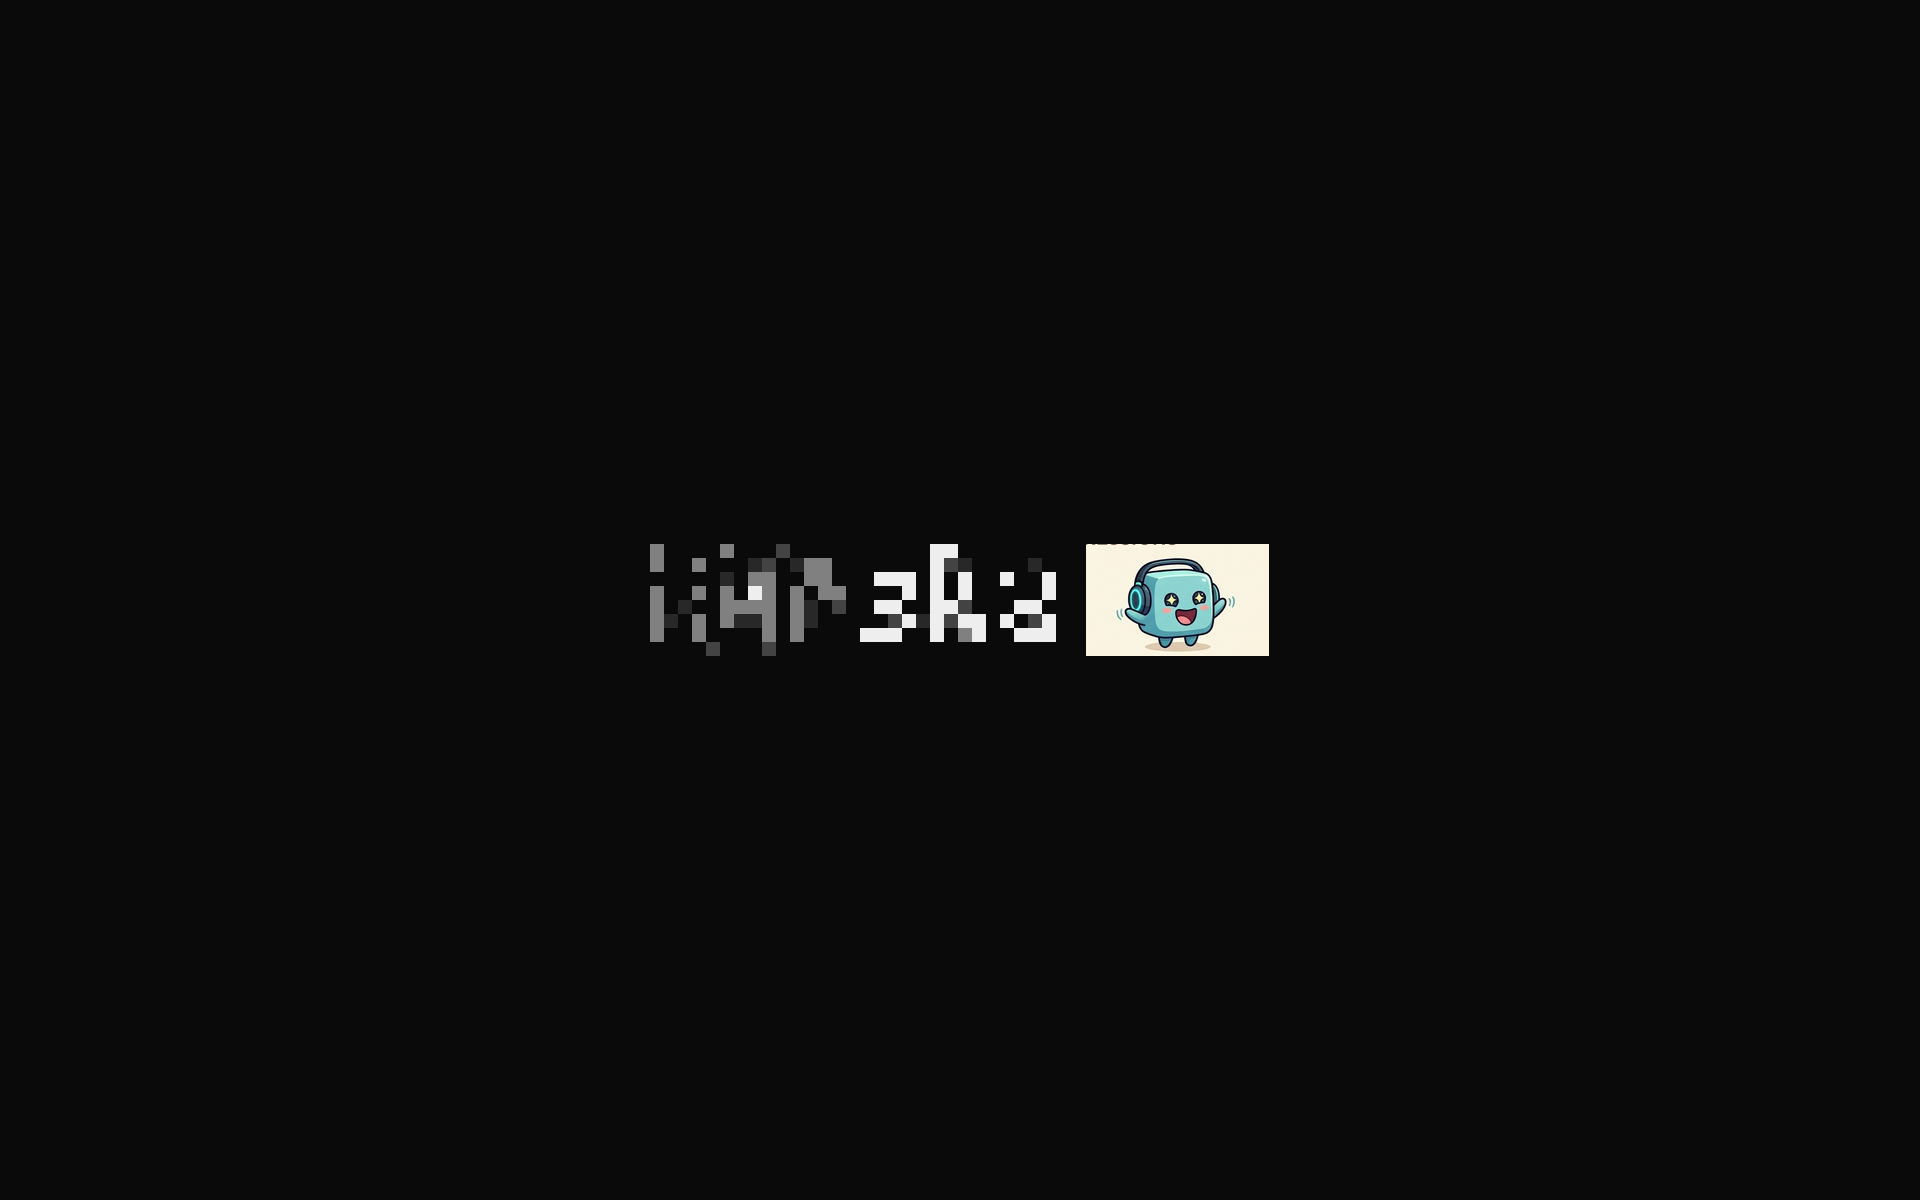
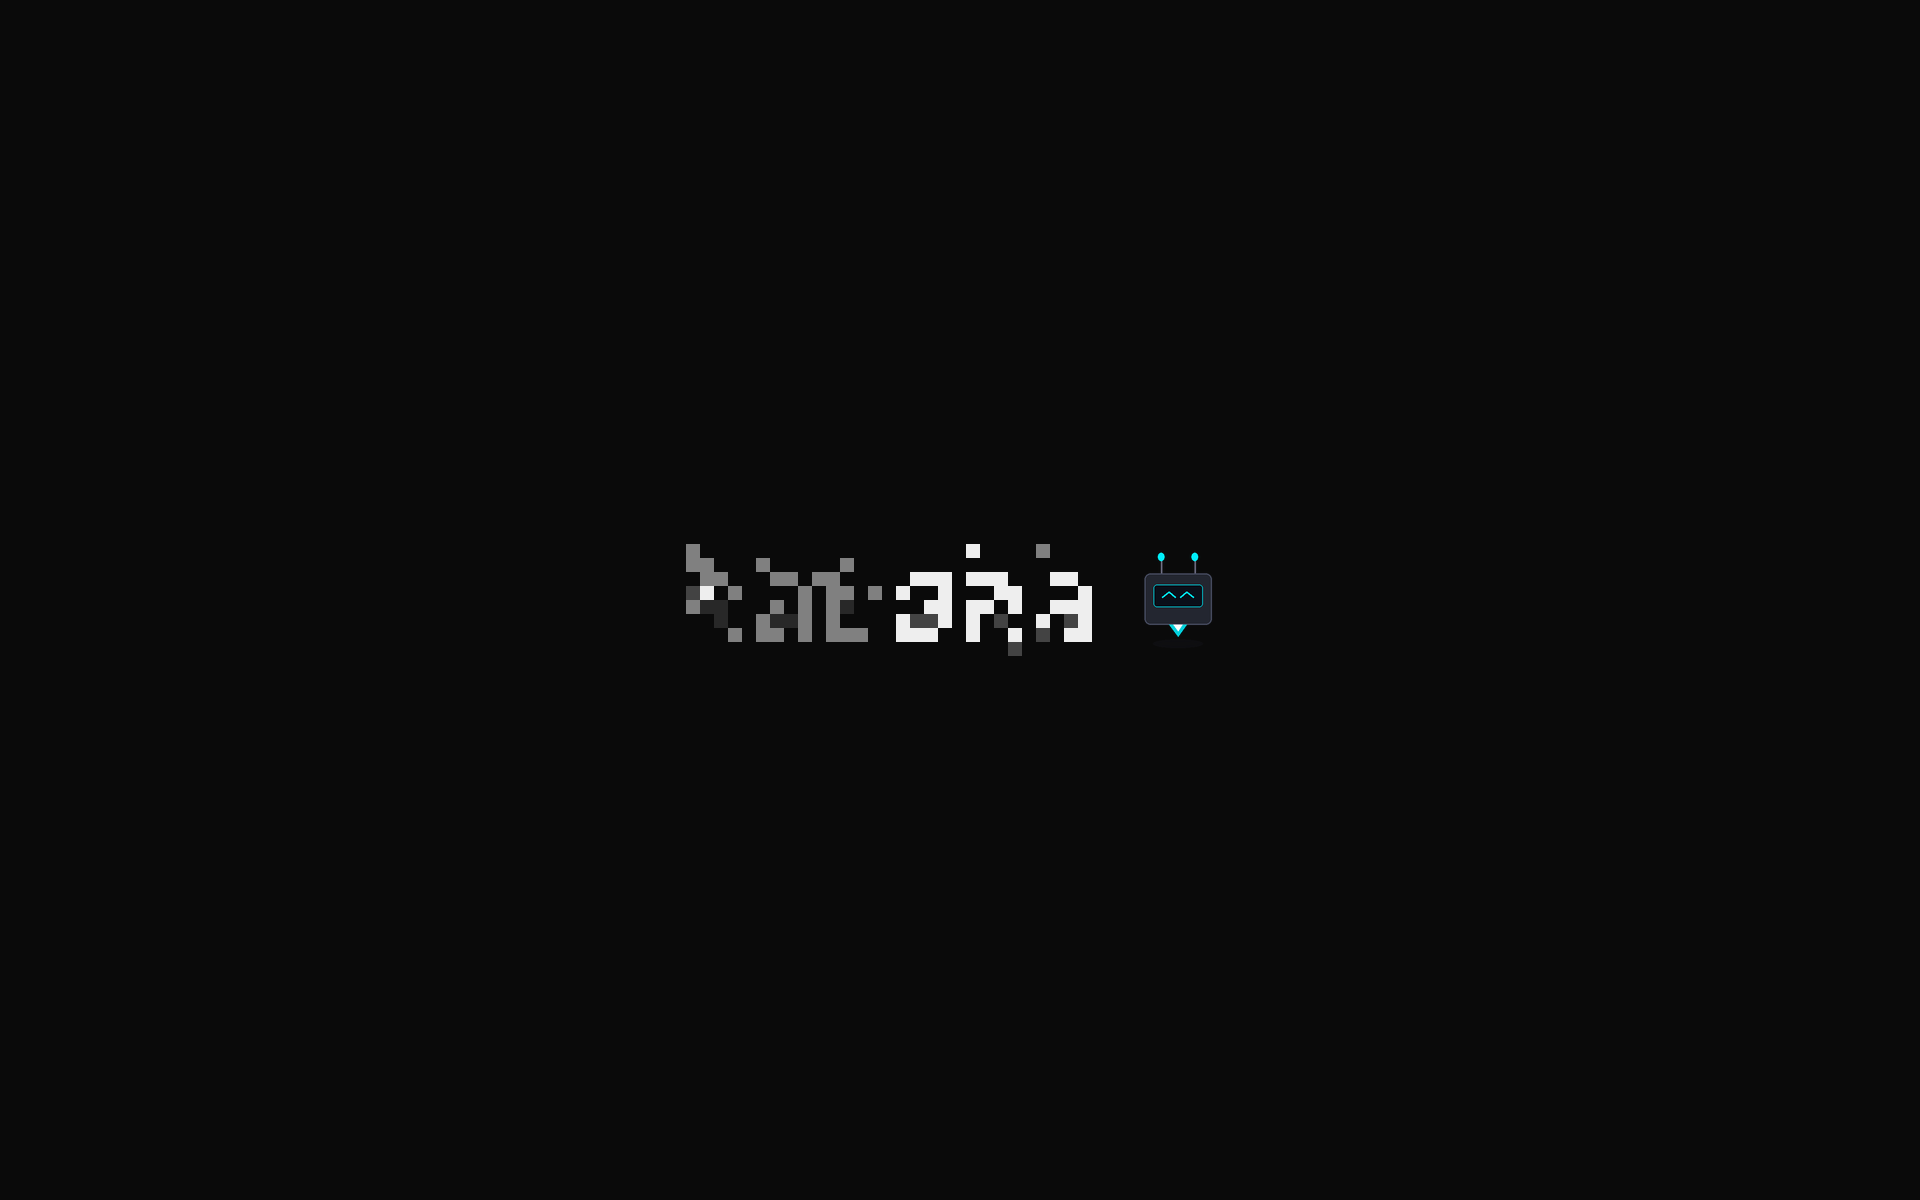
Ensure only designated cartoons (Orange Brick for HIAK, Cyber-Bot for HARSHA) appear during morph

Changed region(s): [[0.3125, 0.4317, 0.6875, 0.555]]

diff --git a/core/reformat_wallpapers.py b/core/reformat_wallpapers.py
@@ -1,9 +1,9 @@
 """
 Reformat Wallpaper Suite for Medium Scale & Exact 1920x1200 Center Alignment
-- Native 1920x1200 16:10 canvas matching monitor resolution (no zoom/crop)
-- Medium 14px unit-block grid (exact OpenCode aesthetic standard)
-- Perfectly centered horizontally (X=960) and vertically (Y=600)
-- Applies to all 7 HIAK poses & all HIAK <-> HARSHA Cyber-Bot morph frames
+ONLY uses the designated cartoons:
+- HIAK: Designated Orange Brick Mascot
+- HARSHA: Designated Option 4 Floating Cyber-Bot
+NO intermediate or unrelated cartoons appear during the transition!
 """
 import sys
 from pathlib import Path
@@ -47,12 +47,12 @@ def composite_centered(text_img: Image.Image, mascot_img: Image.Image, canvas_w=
 
 
 def reformat_all():
-    print(f"📐 Reformatting wallpapers to {SCREEN_W}x{SCREEN_H} (Medium Scale {SCALE}px, Dead-Center)...")
+    print(f"📐 Reformatting wallpapers: ONLY designated cartoons (Orange Brick for HIAK, Cyber-Bot for HARSHA)...")
     
     # 1. Base HIAK logo at scale 14
     hiak_logo = render_opencode_image("hiak", scale=SCALE, bg_color=None)
     
-    # 2. Re-render 7 HIAK poses in assets/wallpapers/poses
+    # 2. Re-render 7 HIAK poses in assets/wallpapers/poses (Designated Orange Brick poses)
     POSES_DIR.mkdir(parents=True, exist_ok=True)
     pose_files = [
         ("1_neutral.png", "neutral.png"),
@@ -69,28 +69,38 @@ def reformat_all():
         wp.save(str(POSES_DIR / out_name), quality=95)
     print("  ✅ 7 HIAK desktop poses updated (1920x1200 medium centered)")
 
-    # 3. Re-render HIAK <-> HARSHA Cyber-Bot morph sequence
+    # 3. Clean Morph Sequence: ONLY the designated Orange Brick & Option 4 Cyber-Bot!
+    # No random / intermediate cartoon faces!
     MORPH_DIR.mkdir(parents=True, exist_ok=True)
+    
+    # Designated mascot assets
+    brick_img = Image.open(str(MASCOTS_DIR / "neutral.png")).convert("RGBA")
+    cyber_bot_img = Image.open(str(BOT_DIR / "happy.png")).convert("RGBA")
+
     stages = [
-        (0.0, MASCOTS_DIR / "neutral.png", "1_1_hiak_solid.png"),
-        (0.0, MASCOTS_DIR / "cool.png", "2_2_hiak_cool.png"),
-        (0.3, MASCOTS_DIR / "thinking.png", "3_3_dissolve_start.png"),
-        (0.65, MASCOTS_DIR / "excited.png", "4_4_glitch_midway.png"),
-        (0.9, BOT_DIR / "coding.png", "5_5_harsha_forming.png"),
-        (1.0, BOT_DIR / "coding.png", "6_6_harsha_cyber_bot_coding.png"),
-        (1.0, BOT_DIR / "happy.png", "7_7_harsha_cyber_bot_happy.png"),
-        (0.5, MASCOTS_DIR / "starstruck.png", "8_8_morph_return.png"),
+        # Stage 1: Pure HIAK + Designated Orange Brick
+        (0.0, brick_img, "1_1_hiak_solid.png"),
+        (0.0, brick_img, "2_2_hiak_cool.png"),
+        # Stage 2: Dissolve starts: HIAK text glitches, Orange Brick stays clean!
+        (0.3, brick_img, "3_3_dissolve_start.png"),
+        # Stage 3: Glitch midway: text morphing, Cyber-Bot takes over!
+        (0.7, cyber_bot_img, "4_4_glitch_midway.png"),
+        # Stage 4: Pure HARSHA + Designated Option 4 Cyber-Bot!
+        (1.0, cyber_bot_img, "5_5_harsha_forming.png"),
+        (1.0, cyber_bot_img, "6_6_harsha_cyber_bot_coding.png"),
+        (1.0, cyber_bot_img, "7_7_harsha_cyber_bot_happy.png"),
+        # Stage 5: Return morph: text dissolves back to HIAK with Orange Brick!
+        (0.4, brick_img, "8_8_morph_return.png"),
     ]
     
     frames_1200p = []
-    for prog, m_path, out_name in stages:
-        m_img = Image.open(str(m_path)).convert("RGBA")
+    for prog, m_img, out_name in stages:
         text_img = generate_morph_text_image("hiak", "harsha", prog, scale=SCALE)
         wp = composite_centered(text_img, m_img)
         wp.save(str(MORPH_DIR / out_name), quality=95)
         frames_1200p.append(wp)
         
-    # Also save standard 6_6_harsha_coding.png alias for backwards compatibility
+    # Alias for backwards compatibility
     frames_1200p[5].save(str(MORPH_DIR / "6_6_harsha_coding.png"))
 
     # Save animated morph GIF
@@ -99,11 +109,11 @@ def reformat_all():
         str(gif_path),
         save_all=True,
         append_images=frames_1200p[1:],
-        duration=[1200, 1000, 250, 300, 350, 1200, 1000, 350],
+        duration=[1200, 1000, 180, 200, 300, 1500, 1200, 250],
         loop=0,
         optimize=True
     )
-    print("  ✅ Morph sequence & animated GIF updated (1920x1200 medium centered)")
+    print("  ✅ Morph sequence & animated GIF updated: ONLY designated cartoons!")
 
 
 if __name__ == "__main__":

diff --git a/core/wallpaper_animator.py b/core/wallpaper_animator.py
@@ -137,14 +137,15 @@ def play_desktop_pixel_morph(duration: float = 3.0):
 
 def is_over_text(pt_x: int, pt_y: int, screen_w: int, screen_h: int) -> bool:
     """
-    Checks if cursor is over the 'hiak' text area on the 1920x1200 medium centered wallpaper.
+    Checks if cursor is deliberately hovering over the 'hiak' text area on the 1920x1200 medium centered wallpaper.
+    Exact 'hiak' text bounding box: X=[756, 1022], Y=[544, 656].
     """
     scale_x = screen_w / 1920.0
     scale_y = screen_h / 1200.0
-    min_x = int(660 * scale_x)
-    max_x = int(1150 * scale_x)
-    min_y = int(500 * scale_y)
-    max_y = int(700 * scale_y)
+    min_x = int(730 * scale_x)
+    max_x = int(1045 * scale_x)
+    min_y = int(520 * scale_y)
+    max_y = int(680 * scale_y)
     return (min_x <= pt_x <= max_x) and (min_y <= pt_y <= max_y)
 
 
